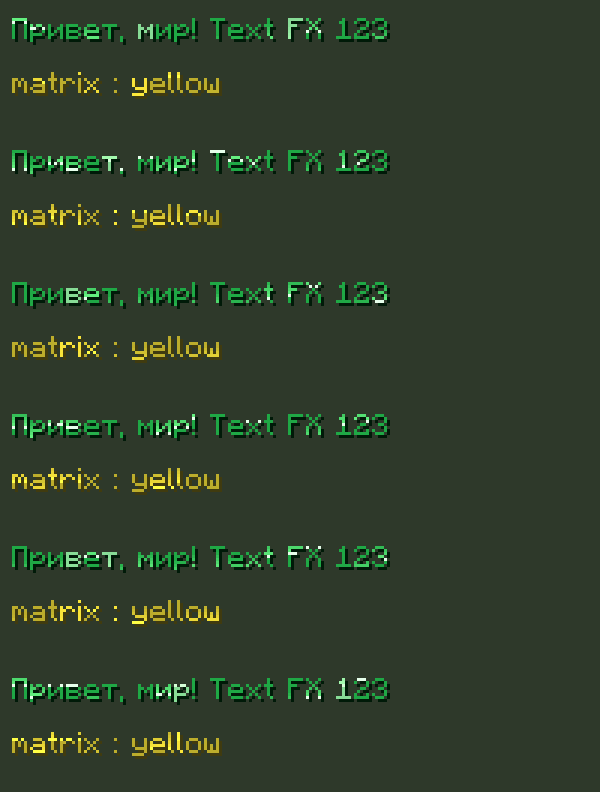
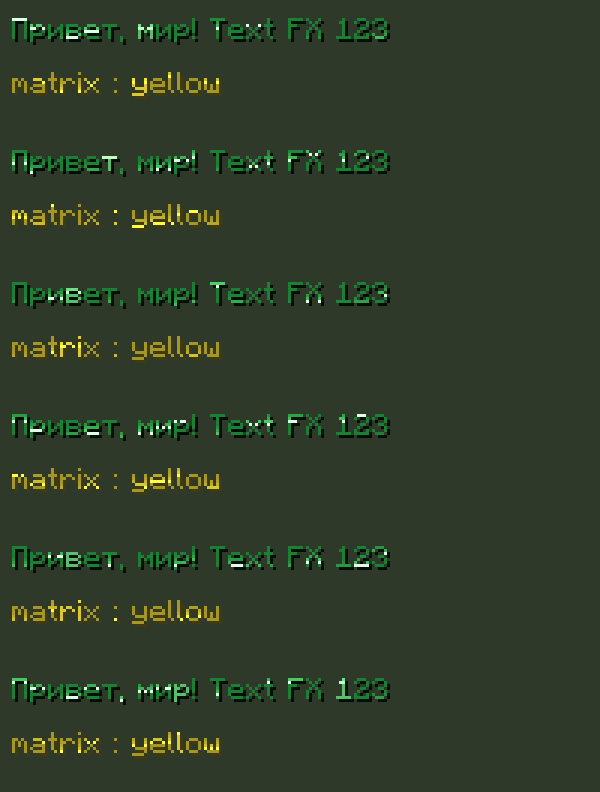
WIP: textshader snapshot
Claude-Session: https://claude.ai/code/session_01LEqCpLCHF2ZqbNRSz75XnK

diff --git a/textshader/src/main/java/dev/tearsmilk/textshader/ChatTags.java b/textshader/src/main/java/dev/tearsmilk/textshader/ChatTags.java
@@ -2,12 +2,13 @@ package dev.tearsmilk.textshader;
 
 import java.util.ArrayList;
 import java.util.List;
+import java.util.function.Predicate;
 import java.util.regex.Matcher;
 import java.util.regex.Pattern;
 
 public final class ChatTags {
 
-    public record Segment(String text, FxSpec spec) {
+    public record Segment(String text, FxSpec spec, boolean tagged) {
     }
 
     private static final Pattern TAG = Pattern.compile("<(/)?(?:(?:fx|textshader):)?([a-zA-Z_-]*)(?::([a-zA-Z_]+))?>");
@@ -29,43 +30,69 @@ public final class ChatTags {
     }
 
     public static List<Segment> parse(String text, FxSpec base) {
-        List<Segment> out = new ArrayList<>();
-        if (text == null) {
+        return new Parser(base, e -> true).feed(text);
+    }
+
+    public static final class Parser {
+        private final FxSpec base;
+        private final Predicate<Effect> allowed;
+        private final List<FxSpec> stack = new ArrayList<>();
+
+        public Parser(FxSpec base, Predicate<Effect> allowed) {
+            this.base = base;
+            this.allowed = allowed;
+        }
+
+        public List<Segment> feed(String text) {
+            List<Segment> out = new ArrayList<>();
+            if (text == null) {
+                return out;
+            }
+            Matcher m = TAG.matcher(text);
+            StringBuilder buf = new StringBuilder();
+            int pos = 0;
+            while (m.find()) {
+                boolean closing = m.group(1) != null;
+                FxSpec spec = closing ? null : specOf(m);
+                if (!closing && spec == null) {
+                    continue;
+                }
+                if (closing && stack.isEmpty()) {
+                    continue;
+                }
+                if (closing && !m.group(2).isEmpty() && !closes(stack.get(stack.size() - 1), m.group(2))) {
+                    continue;
+                }
+                buf.append(text, pos, m.start());
+                flush(out, buf);
+                if (closing) {
+                    stack.remove(stack.size() - 1);
+                } else {
+                    stack.add(allowed.test(spec.effect()) ? spec : null);
+                }
+                pos = m.end();
+            }
+            buf.append(text, pos, text.length());
+            flush(out, buf);
             return out;
         }
-        Matcher m = TAG.matcher(text);
-        StringBuilder buf = new StringBuilder();
-        List<FxSpec> stack = new ArrayList<>();
-        int pos = 0;
-        while (m.find()) {
-            boolean closing = m.group(1) != null;
-            FxSpec spec = closing ? null : specOf(m);
-            if (!closing && spec == null) {
-                continue;
+
+        private void flush(List<Segment> out, StringBuilder buf) {
+            if (buf.length() == 0) {
+                return;
             }
-            if (closing && stack.isEmpty()) {
-                continue;
+            FxSpec top = null;
+            for (int i = stack.size() - 1; i >= 0 && top == null; i--) {
+                top = stack.get(i);
             }
-            if (closing && !m.group(2).isEmpty() && !closes(stack.get(stack.size() - 1), m.group(2))) {
-                continue;
-            }
-            buf.append(text, pos, m.start());
-            flush(out, buf, current(stack, base));
-            if (closing) {
-                stack.remove(stack.size() - 1);
-            } else {
-                stack.add(spec);
-            }
-            pos = m.end();
+            out.add(new Segment(buf.toString(), top != null ? top : base, top != null));
+            buf.setLength(0);
         }
-        buf.append(text, pos, text.length());
-        flush(out, buf, current(stack, base));
-        return out;
     }
 
     private static boolean closes(FxSpec open, String name) {
         Effect e = Effect.byKey(name);
-        return e != null && e == open.effect();
+        return e != null && (open == null || e == open.effect());
     }
 
     private static FxSpec specOf(Matcher m) {
@@ -82,17 +109,5 @@ public final class ChatTags {
         }
         Palette p = Palette.byKey(m.group(3));
         return p == null ? null : new FxSpec(e, p);
-    }
-
-    private static FxSpec current(List<FxSpec> stack, FxSpec base) {
-        return stack.isEmpty() ? base : stack.get(stack.size() - 1);
-    }
-
-    private static void flush(List<Segment> out, StringBuilder buf, FxSpec spec) {
-        if (buf.length() == 0) {
-            return;
-        }
-        out.add(new Segment(buf.toString(), spec));
-        buf.setLength(0);
     }
 }

diff --git a/textshader/src/main/java/dev/tearsmilk/textshader/ChatFx.java b/textshader/src/main/java/dev/tearsmilk/textshader/ChatFx.java
@@ -1,0 +1,118 @@
+package dev.tearsmilk.textshader;
+
+import net.kyori.adventure.text.Component;
+import net.kyori.adventure.text.TextComponent;
+import net.kyori.adventure.text.format.TextColor;
+
+import java.util.ArrayList;
+import java.util.List;
+import java.util.Objects;
+import java.util.function.Predicate;
+
+public final class ChatFx {
+
+    private final FxSpec base;
+    private final boolean tags;
+    private final boolean sanitize;
+    private final Predicate<Effect> allowed;
+    private final ChatTags.Parser parser;
+    private int index;
+    private boolean changed;
+
+    private ChatFx(FxSpec base, boolean tags, boolean sanitize, Predicate<Effect> allowed) {
+        this.base = base;
+        this.tags = tags;
+        this.sanitize = sanitize;
+        this.allowed = allowed;
+        this.parser = new ChatTags.Parser(base, allowed);
+    }
+
+    public static Component apply(Component message, FxSpec base, boolean tags, boolean sanitize, Predicate<Effect> allowed) {
+        ChatFx fx = new ChatFx(base, tags, sanitize, allowed);
+        Component out = fx.walk(message, null);
+        return fx.changed ? out : message;
+    }
+
+    public static Component render(String text, FxSpec spec) {
+        return apply(Component.text(text), spec, true, false, e -> true);
+    }
+
+    private TextColor clean(TextColor color) {
+        if (!sanitize || color == null) {
+            return color;
+        }
+        FxCode.Decoded d = FxCode.decode(color.value());
+        if (d == null || d.shadow()) {
+            return color;
+        }
+        if (d.effect().hidden() || !allowed.test(d.effect())) {
+            return null;
+        }
+        return color;
+    }
+
+    private Component walk(Component c, TextColor inherited) {
+        Component cur = c;
+        TextColor own = clean(c.color());
+        if (!Objects.equals(own, c.color())) {
+            cur = cur.color(own);
+            changed = true;
+        }
+        TextColor effective = own != null ? own : inherited;
+        List<Component> kids = new ArrayList<>();
+        if (cur instanceof TextComponent t && !t.content().isEmpty()) {
+            List<ChatTags.Segment> segs = tags ? parser.feed(t.content())
+                    : List.of(new ChatTags.Segment(t.content(), base, false));
+            boolean same = segs.size() == 1 && segs.get(0).text().equals(t.content()) && !applies(segs.get(0), effective);
+            if (!same) {
+                for (ChatTags.Segment s : segs) {
+                    kids.add(render(s, effective));
+                }
+                cur = t.content("");
+                changed = true;
+            }
+        } else if (!(cur instanceof TextComponent) && base != null && !base.effect().indexed() && effective == null) {
+            cur = cur.color(TextColor.color(base.code()));
+            effective = cur.color();
+            changed = true;
+        }
+        for (Component child : c.children()) {
+            kids.add(walk(child, effective));
+        }
+        return cur.children(kids);
+    }
+
+    private static boolean applies(ChatTags.Segment s, TextColor effective) {
+        return s.spec() != null && (s.tagged() || effective == null);
+    }
+
+    private Component render(ChatTags.Segment s, TextColor effective) {
+        if (!applies(s, effective)) {
+            countNewlines(s.text());
+            return Component.text(s.text());
+        }
+        FxSpec spec = s.spec();
+        if (!spec.effect().indexed()) {
+            countNewlines(s.text());
+            return Component.text(s.text(), TextColor.color(spec.code()));
+        }
+        TextComponent.Builder b = Component.text();
+        s.text().codePoints().forEach(cp -> {
+            String ch = new String(Character.toChars(cp));
+            if (cp == '\n') {
+                index = 0;
+                b.append(Component.text(ch, TextColor.color(spec.code(0))));
+                return;
+            }
+            b.append(Component.text(ch, TextColor.color(spec.code(index))));
+            index++;
+        });
+        return b.build();
+    }
+
+    private void countNewlines(String text) {
+        if (text.indexOf('\n') >= 0) {
+            index = 0;
+        }
+    }
+}

diff --git a/textshader/src/main/java/dev/tearsmilk/textshader/ChatListener.java b/textshader/src/main/java/dev/tearsmilk/textshader/ChatListener.java
@@ -1,10 +1,6 @@
 package dev.tearsmilk.textshader;
 
 import io.papermc.paper.event.player.AsyncChatEvent;
-import net.kyori.adventure.text.Component;
-import net.kyori.adventure.text.TextComponent;
-import net.kyori.adventure.text.format.TextColor;
-import net.kyori.adventure.text.serializer.plain.PlainTextComponentSerializer;
 import org.bukkit.entity.Player;
 import org.bukkit.event.EventHandler;
 import org.bukkit.event.EventPriority;
@@ -37,38 +33,16 @@ public final class ChatListener implements Listener {
             return;
         }
         Player p = e.getPlayer();
-        if (!p.hasPermission("textshader.use")) {
+        boolean sanitize = plugin.getConfig().getBoolean("chat.sanitize", true);
+        boolean use = p.hasPermission("textshader.use");
+        if (!use && !sanitize) {
             return;
         }
-        FxSpec base = plugin.choices().get(p.getUniqueId(), Choices.Target.CHAT);
+        FxSpec base = use ? plugin.choices().get(p.getUniqueId(), Choices.Target.CHAT) : null;
         if (base != null && !p.hasPermission(base.effect().permission())) {
             base = null;
         }
-        Component message = e.message();
-        String plain = PlainTextComponentSerializer.plainText().serialize(message);
-        if (plugin.getConfig().getBoolean("chat.tags", true) && ChatTags.hasTags(plain)) {
-            e.message(tagged(p, plain, base));
-            return;
-        }
-        if (base == null) {
-            return;
-        }
-        if (base.effect().indexed()) {
-            e.message(FxText.render(plain, base));
-        } else {
-            e.message(message.color(TextColor.color(base.code())));
-        }
-    }
-
-    static Component tagged(Player p, String plain, FxSpec base) {
-        TextComponent.Builder b = Component.text();
-        for (ChatTags.Segment s : ChatTags.parse(plain, base)) {
-            FxSpec spec = s.spec();
-            if (spec != null && p != null && !p.hasPermission(spec.effect().permission())) {
-                spec = base;
-            }
-            b.append(spec == null ? Component.text(s.text()) : FxText.render(s.text(), spec));
-        }
-        return b.build();
+        boolean tags = use && plugin.getConfig().getBoolean("chat.tags", true);
+        e.message(ChatFx.apply(e.message(), base, tags, sanitize, ef -> use && p.hasPermission(ef.permission())));
     }
 }

diff --git a/textshader/src/main/java/dev/tearsmilk/textshader/Menu.java b/textshader/src/main/java/dev/tearsmilk/textshader/Menu.java
@@ -67,6 +67,14 @@ public final class Menu implements Listener {
         show(p, v);
     }
 
+    private void later(Player p, View v) {
+        Bukkit.getScheduler().runTask(plugin, () -> {
+            if (p.isOnline()) {
+                show(p, v);
+            }
+        });
+    }
+
     private void show(Player p, View v) {
         String title = plugin.msg().raw(v.pending == null ? "menu-title" : "menu-color-title")
                 .replace("<target>", v.target.title());
@@ -177,7 +185,7 @@ public final class Menu implements Listener {
         if (v.pending != null) {
             if (slot == SLOT_BACK) {
                 v.pending = null;
-                show(p, v);
+                later(p, v);
                 return;
             }
             int row = slot / 9 - 1;
@@ -192,7 +200,7 @@ public final class Menu implements Listener {
             plugin.apply(p, v.target, new FxSpec(v.pending, c), true);
             click(p);
             v.pending = null;
-            show(p, v);
+            later(p, v);
             return;
         }
         Effect ef = effectAt(v.page, slot);
@@ -204,7 +212,7 @@ public final class Menu implements Listener {
             }
             if (e.isRightClick()) {
                 v.pending = ef;
-                show(p, v);
+                later(p, v);
                 return;
             }
             FxSpec cur = current(p, v);
@@ -228,7 +236,7 @@ public final class Menu implements Listener {
             }
             case SLOT_TARGET -> {
                 v.target = v.target.other();
-                show(p, v);
+                later(p, v);
             }
             case SLOT_COLOR -> {
                 FxSpec cur = current(p, v);
@@ -238,7 +246,7 @@ public final class Menu implements Listener {
                     return;
                 }
                 v.pending = cur.effect();
-                show(p, v);
+                later(p, v);
             }
             case SLOT_OFF -> {
                 plugin.apply(p, v.target, null, true);

diff --git a/textshader/src/main/java/dev/tearsmilk/textshader/Commands.java b/textshader/src/main/java/dev/tearsmilk/textshader/Commands.java
@@ -297,7 +297,7 @@ public final class Commands implements TabExecutor {
             return;
         }
         String text = String.join(" ", Arrays.copyOfRange(a, from, a.length));
-        Component line = ChatTags.hasTags(text) ? ChatListener.tagged(null, text, spec) : FxText.render(text, spec);
+        Component line = ChatTags.hasTags(text) ? ChatFx.render(text, spec) : FxText.render(text, spec);
         Bukkit.broadcast(line);
     }
 
